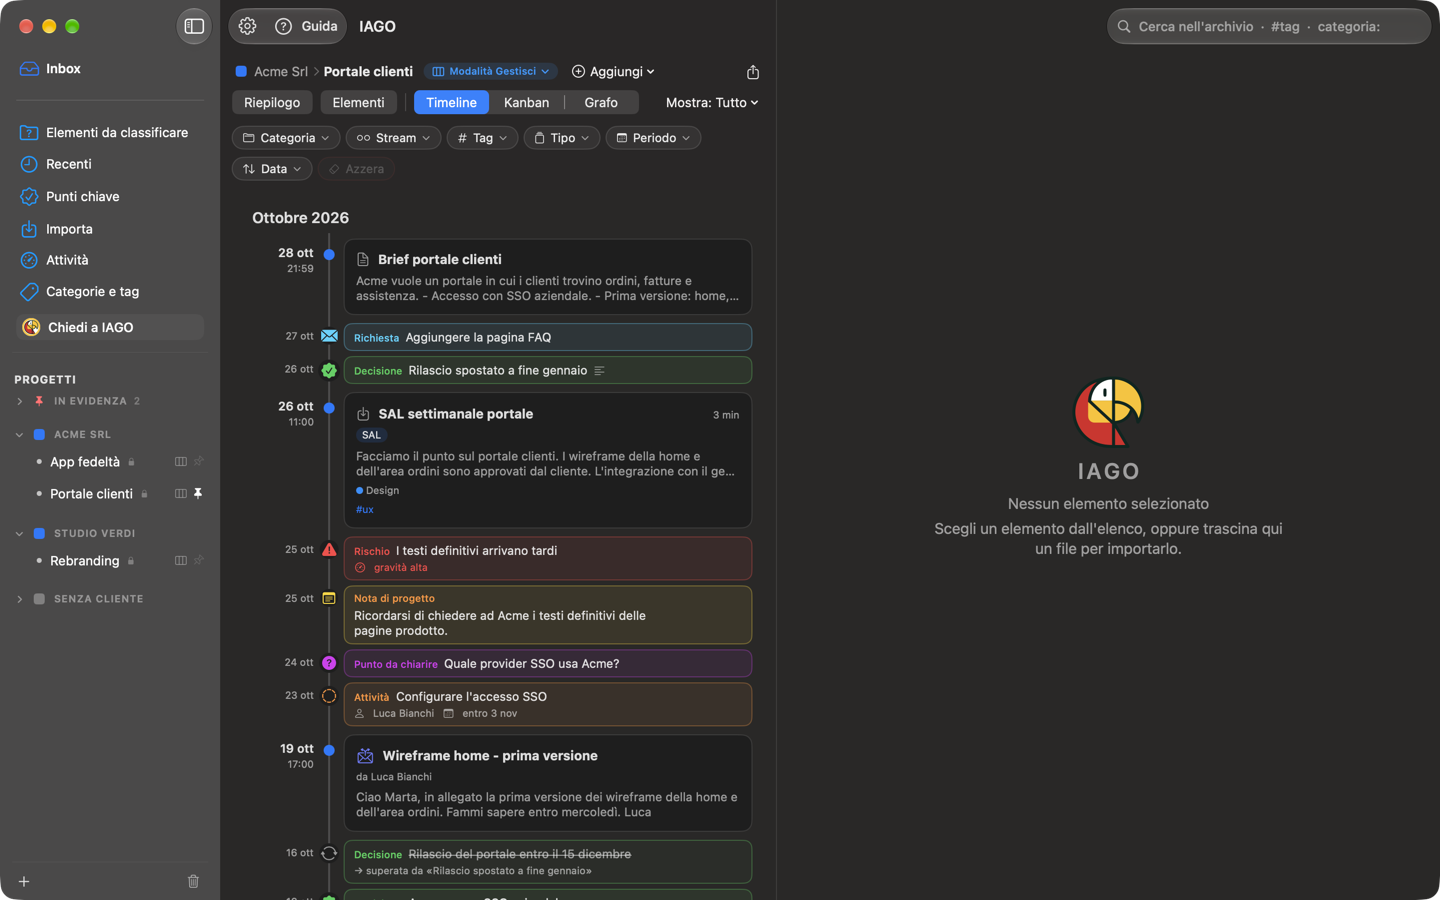
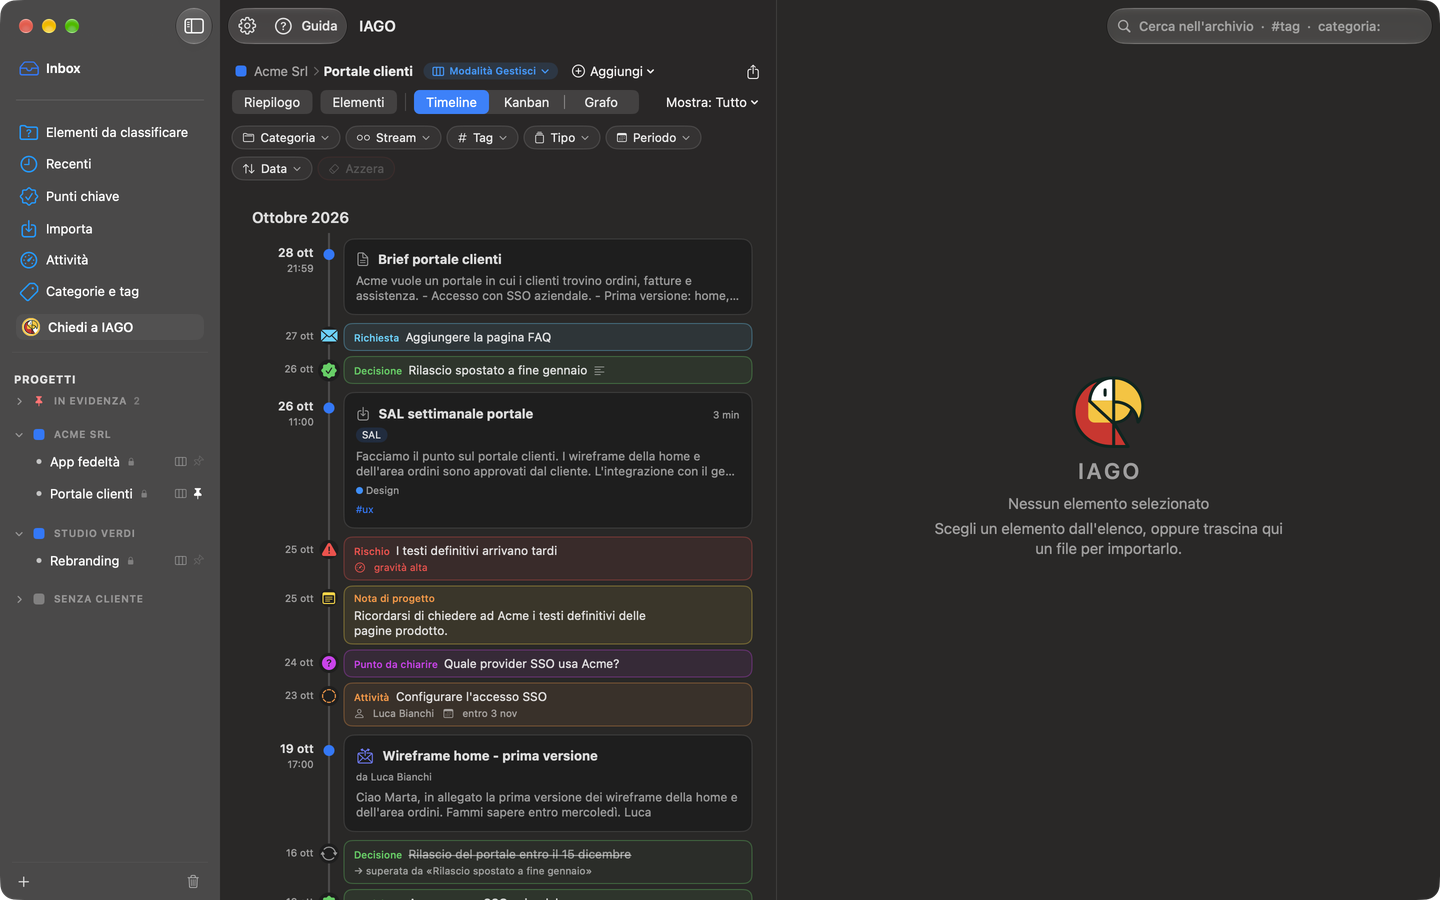
fix: sidebar under the title bar when «Chiedi a IAGO» opened on a wide view; inspector buttons cut
- Only the floating «Chiedi a IAGO» button animates: animating the whole window
  moved the sidebar of the two-column layout under the title bar.
- Key point detail: kind, state and actions on one line, the date below, buttons
  never truncated in the kanban's inspector.
- Demo tour: -IAGODemoShots to retake only some screens. Guide screenshots
  retaken and checked; guide adds import from a project and the window layout.

Changed region(s): [[0.0312, 0.1244, 0.125, 0.1867], [0.0312, 0.2489, 0.0625, 0.3111], [0.0312, 0.0622, 0.0625, 0.0933]]

diff --git a/App/Sources/UI/DetailPanes.swift b/App/Sources/UI/DetailPanes.swift
@@ -30,15 +30,17 @@ struct DecisionDetailView: View {
     private func content(_ summary: DecisionSummary) -> some View {
         let decision = summary.decision
         VStack(alignment: .leading, spacing: 16) {
+            // Kind, state and actions on one line; the date below, so a narrow pane (the inspector of the kanban)
+            // never cuts the buttons.
             HStack(spacing: 8) {
                 Text(DecisionRow.kindLabel(decision.kind)).font(.callout.weight(.bold))
-                    .foregroundStyle(DecisionRow.tint(decision.kind))
+                    .foregroundStyle(DecisionRow.tint(decision.kind)).fixedSize()
                 Label(DecisionRow.label(summary, mode: mode), systemImage: DecisionRow.icon(summary))
-                    .font(.callout.weight(.semibold)).foregroundStyle(DecisionRow.color(summary))
-                Text(decision.decidedAt.formatted(date: .long, time: .shortened)).foregroundStyle(.secondary)
-                Spacer()
-                KeyPointPrimaryAction(model: model, summary: summary)
+                    .font(.callout.weight(.semibold)).foregroundStyle(DecisionRow.color(summary)).lineLimit(1)
+                Spacer(minLength: 8)
+                KeyPointPrimaryAction(model: model, summary: summary).fixedSize()
                 Button(String(localized: "Modifica…")) { model.editingDecision = DecisionDraft(summary) }
+                    .fixedSize()
                 Menu {
                     KeyPointActions(model: model, summary: summary)
                 } label: {
@@ -47,6 +49,8 @@ struct DecisionDetailView: View {
                 .menuStyle(.borderlessButton).menuIndicator(.hidden).fixedSize()
                 .help(String(localized: "Altre azioni"))
             }
+            Text(decision.decidedAt.formatted(date: .long, time: .shortened)).foregroundStyle(.secondary)
+                .padding(.top, -8)
             ViaClaudeBadge(model: model, entity: .decision, id: decision.id)
             if let provenance = Provenance.decision(decision) {
                 ProvenanceLine(text: provenance, model: decision.model == Provenance.claude ? nil : decision.model)

diff --git a/App/Sources/UI/MainView.swift b/App/Sources/UI/MainView.swift
@@ -44,13 +44,17 @@ struct MainView: View {
             }
         }
         .overlay(alignment: .bottomTrailing) {
-            if !model.showsChat, !askButtonHidden {
-                AskIAGOButton(model: model) { askButtonHidden = true }
-                    .padding(.trailing, 22).padding(.bottom, 20)
-                    .transition(.scale.combined(with: .opacity))
+            ZStack {
+                if !model.showsChat, !askButtonHidden {
+                    AskIAGOButton(model: model) { askButtonHidden = true }
+                        .padding(.trailing, 22).padding(.bottom, 20)
+                        .transition(.scale.combined(with: .opacity))
+                }
             }
+            // Only the floating button animates: an animated split view moved the sidebar under the title bar when
+            // «Chiedi a IAGO» opened on a wide view.
+            .animation(.easeOut(duration: 0.2), value: model.showsChat)
         }
-        .animation(.easeOut(duration: 0.2), value: model.showsChat)
         .sheet(item: Binding(get: { model.engine.neededFor }, set: { model.engine.neededFor = $0 })) { feature in
             EngineNeededSheet(model: model, feature: feature)
         }

diff --git a/App/Sources/DemoMode.swift b/App/Sources/DemoMode.swift
@@ -173,8 +173,12 @@ enum DemoMode {
             let item = { (title: String) in
                 (try? model.archive.summaries(.recent))?.first { $0.item.title == title }?.id
             }
+            // `-IAGODemoShots a,b`: only these screens, to check a fix without retaking the whole guide.
+            let only = UserDefaults.standard.string(forKey: "IAGODemoShots").map {
+                Set($0.split(separator: ",").map(String.init))
+            }
             func shot(_ name: String, _ window: NSWindow?) async {
-                guard let window else { return }
+                guard let window, only?.contains(name) ?? true else { return }
                 try? await Task.sleep(for: .seconds(1.5))
                 try? "\(window.windowNumber)".write(
                     to: out.appendingPathComponent("\(name).ready"), atomically: true, encoding: .utf8)

diff --git a/docs/stato.md b/docs/stato.md
@@ -42,6 +42,7 @@ La descrizione completa è nel [README](../README.md). In sintesi:
    - rifiniture del grafo.
 
 ## Ultime modifiche
+- **2026-10-29:** dopo un controllo di tutte le schermate: con «Chiedi a IAGO» aperto su una vista larga (Riepilogo, Kanban, Grafo) la barra laterale saliva sotto i pulsanti della finestra, perché l'animazione del pannello toccava tutta la finestra (ora anima solo il pulsante flottante); nel pannello a destra della Kanban i pulsanti non si tagliano più (data sotto). Guida: import dal progetto nel capitolo Email e documenti, finestra principale nei Primi passi. Schermate rifatte e controllate tutte; il tour prende `-IAGODemoShots` per rifare solo alcune schermate.
 - **2026-10-29:** **1.2.0-beta** unita su `main` con il tag `v1.2.0-beta` (PR #11) e installata sul Mac dell'utente. La modalità di un cliente e i progetti con una modalità scelta a mano stanno nell'archivio (impostazioni), così passano con il backup; in `UserDefaults` restano solo Grafo spento e finestre chiuse per sempre. README: in cima il rimando alla documentazione ufficiale (sito VitePress).
 - **2026-10-29:** 1.1.0-beta, seconda revisione dopo la prova (ADR-0076, decisa su una proposta con le finestre di esempio): **Modalità Traccia** davvero semplice (Riepilogo breve con Da fare, Da tenere d'occhio, Ultime decisioni e tappe; attività da spuntare; niente Kanban né «Mostra»; Grafo spegnibile; tutti i tipi) e **Modalità Gestisci** completa; nome, icona e colore delle modalità nella pillola e nella barra laterale; finestra alla prima visita di un progetto o cliente («OK» / «Non mostrare più»). **Inbox** al posto di «Da fare», in cima con il bollino rosso; «Elementi da classificare»; barra delle viste `[Riepilogo] [Elementi] │ [Timeline · Kanban · Grafo]`; «Importa file ed elementi…» in fondo ad «Aggiungi», con import diretto nel progetto. La Kanban di tutti comprende i progetti in Traccia. Il tour dimostrativo si chiude da solo; schermate della guida rifatte, nuove `inbox.png`, `modalita.png`, `importa.png`, `riepilogo-breve.png`.
 - **2026-10-28:** 1.1.0-beta, dopo la prima prova dell'utente: Traccia / Gestisci per progetto, Gestisci predefinito (pillola «Gestisci ▾» accanto al nome e Impostazioni › Progetti; tolti la scelta in Generale e il passo del tour di benvenuto). Barra delle viste ridisegnata (ADR-0075): Riepilogo a parte, poi Elenco · Timeline · Kanban · Mappa, e «Mostra: Tutto / Materiali / Punti chiave»; Kanban, Riepilogo e Mappa a tutta finestra con il pannello a destra (✕ o Esc); Riepilogo ridisegnato per la finestra larga (fascia di numeri, a sinistra cosa fare, a destra contesto, sintesi e checklist); ultima vista ricordata per progetto. Notifica del mattino spenta finché non la si accende. Schermate della guida rifatte dall'archivio dimostrativo, nuova `kanban.png`.

diff --git a/docs/prove-tester.md b/docs/prove-tester.md
@@ -226,6 +226,7 @@ Prima di tutto, se provi una build non ancora unita su `main`: `scripts/try-bran
 - [ ] 10i.20 Barra laterale: in cima **Inbox** in grassetto, con l'icona del vassoio e, se hai voci in ritardo o di oggi o proposte da confermare, il bollino rosso con il loro numero; sotto una linea e **Elementi da classificare**.
 - [ ] 10i.21 *Aggiungi › Importa file ed elementi…* in un progetto: trascina un PDF nell'area, poi *Da testo* (si apre il campo) con un testo breve. Entrambi finiscono nel progetto, non in Elementi da classificare. *Email senza file* apre la finestra dell'email con il progetto già scelto.
 - [ ] 10i.22 Apri un cliente per la prima volta: la finestra chiede la modalità dei suoi progetti. Scegli Traccia: i progetti a cui non avevi scelto una modalità passano in Traccia, e un progetto nuovo del cliente nasce in Traccia.
+- [ ] 10i.23 Con il Riepilogo (o la Kanban) aperto, apri «Chiedi a IAGO»: la barra laterale resta al suo posto, con l'Inbox sotto i pulsanti della finestra. Nella Kanban apri una scheda: nel pannello a destra i pulsanti («Segna come fatta», «Modifica…») sono interi e la data sta sotto.
 
 ## 11. Prove già in coda dalle fasi precedenti
 - [ ] 11.1 "Riordina testo" su 2-3 note dettate: il testo resta fedele (nomi, numeri e date invariati).

diff --git a/App/Resources/Guide/01-primi-passi.md b/App/Resources/Guide/01-primi-passi.md
@@ -22,7 +22,7 @@ Puoi chiedergli cosa si è deciso, chi deve fare cosa, com'è cambiata una scelt
   - un clic apre il menu: *Avvia registrazione*, *Segna momento*, *Nota vocale*, *Importa file…*, Guida, Impostazioni;
   - con il clic destro (o ctrl-clic) avvii, metti in pausa e riprendi una registrazione al volo;
   - durante una registrazione l'icona mostra il tempo, durante una trascrizione la percentuale.
-- **Finestra principale:** a sinistra le viste e i progetti, al centro elenco o timeline, a destra la scheda dell'elemento.
+- **Finestra principale:** a sinistra l'**Inbox** in cima, poi le altre viste e i progetti; al centro il progetto (Riepilogo, Elementi, Timeline, Kanban o Grafo); a destra la scheda dell'elemento.
 - **Impostazioni** (⌘,): tutto ciò che si configura, compresi i **Permessi**.
 - **Guida:** il pulsante **? Guida** in alto a sinistra nella finestra, accanto alle Impostazioni, o il menu dell'icona di IAGO {{icona}}.
 

diff --git a/App/Resources/Guide/12-email-documenti.md b/App/Resources/Guide/12-email-documenti.md
@@ -6,6 +6,7 @@
 - **Incolla** un testo o un'email da *Importa*. Un JSON incollato o importato si vede in ordine, un valore per riga.
 - **Aggiungi a IAGO** da qualsiasi app: seleziona un testo › tasto destro › *Servizi* › *Aggiungi a IAGO*.
 - Dal menu dell'icona di IAGO {{icona}}: **Importa file…**.
+- **Da dentro un progetto:** *Aggiungi › Importa file ed elementi…*. Trascini, scegli dal Mac, incolli o scrivi un testo, e tutto va direttamente in quel progetto (e negli stream che scegli), senza passare da *Elementi da classificare*.
 
 Le email vengono riconosciute (mittente, destinatari, conversazione) e IAGO propone il progetto in base alle persone.
 
